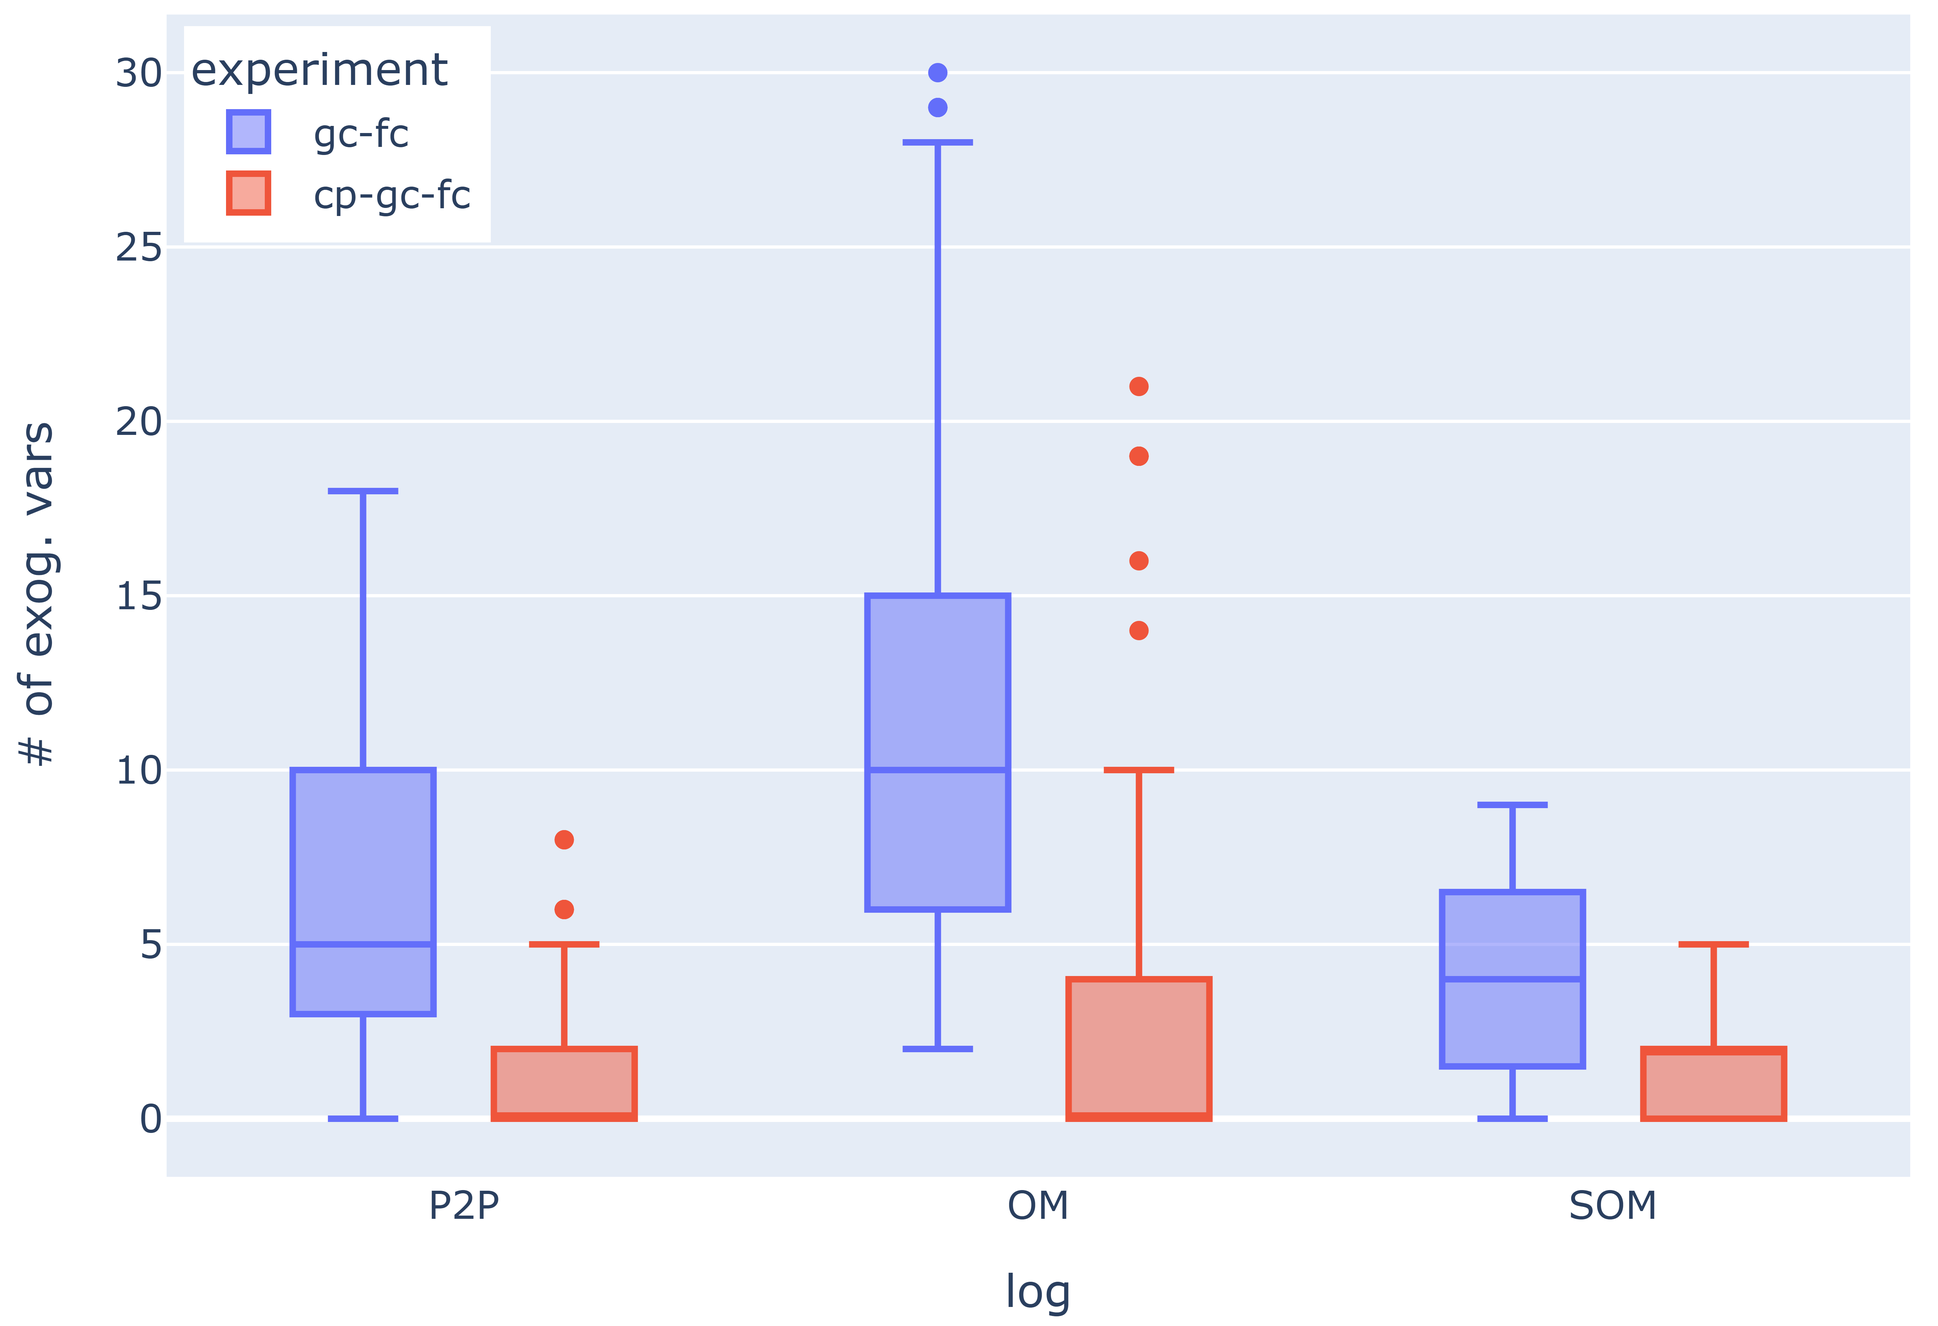
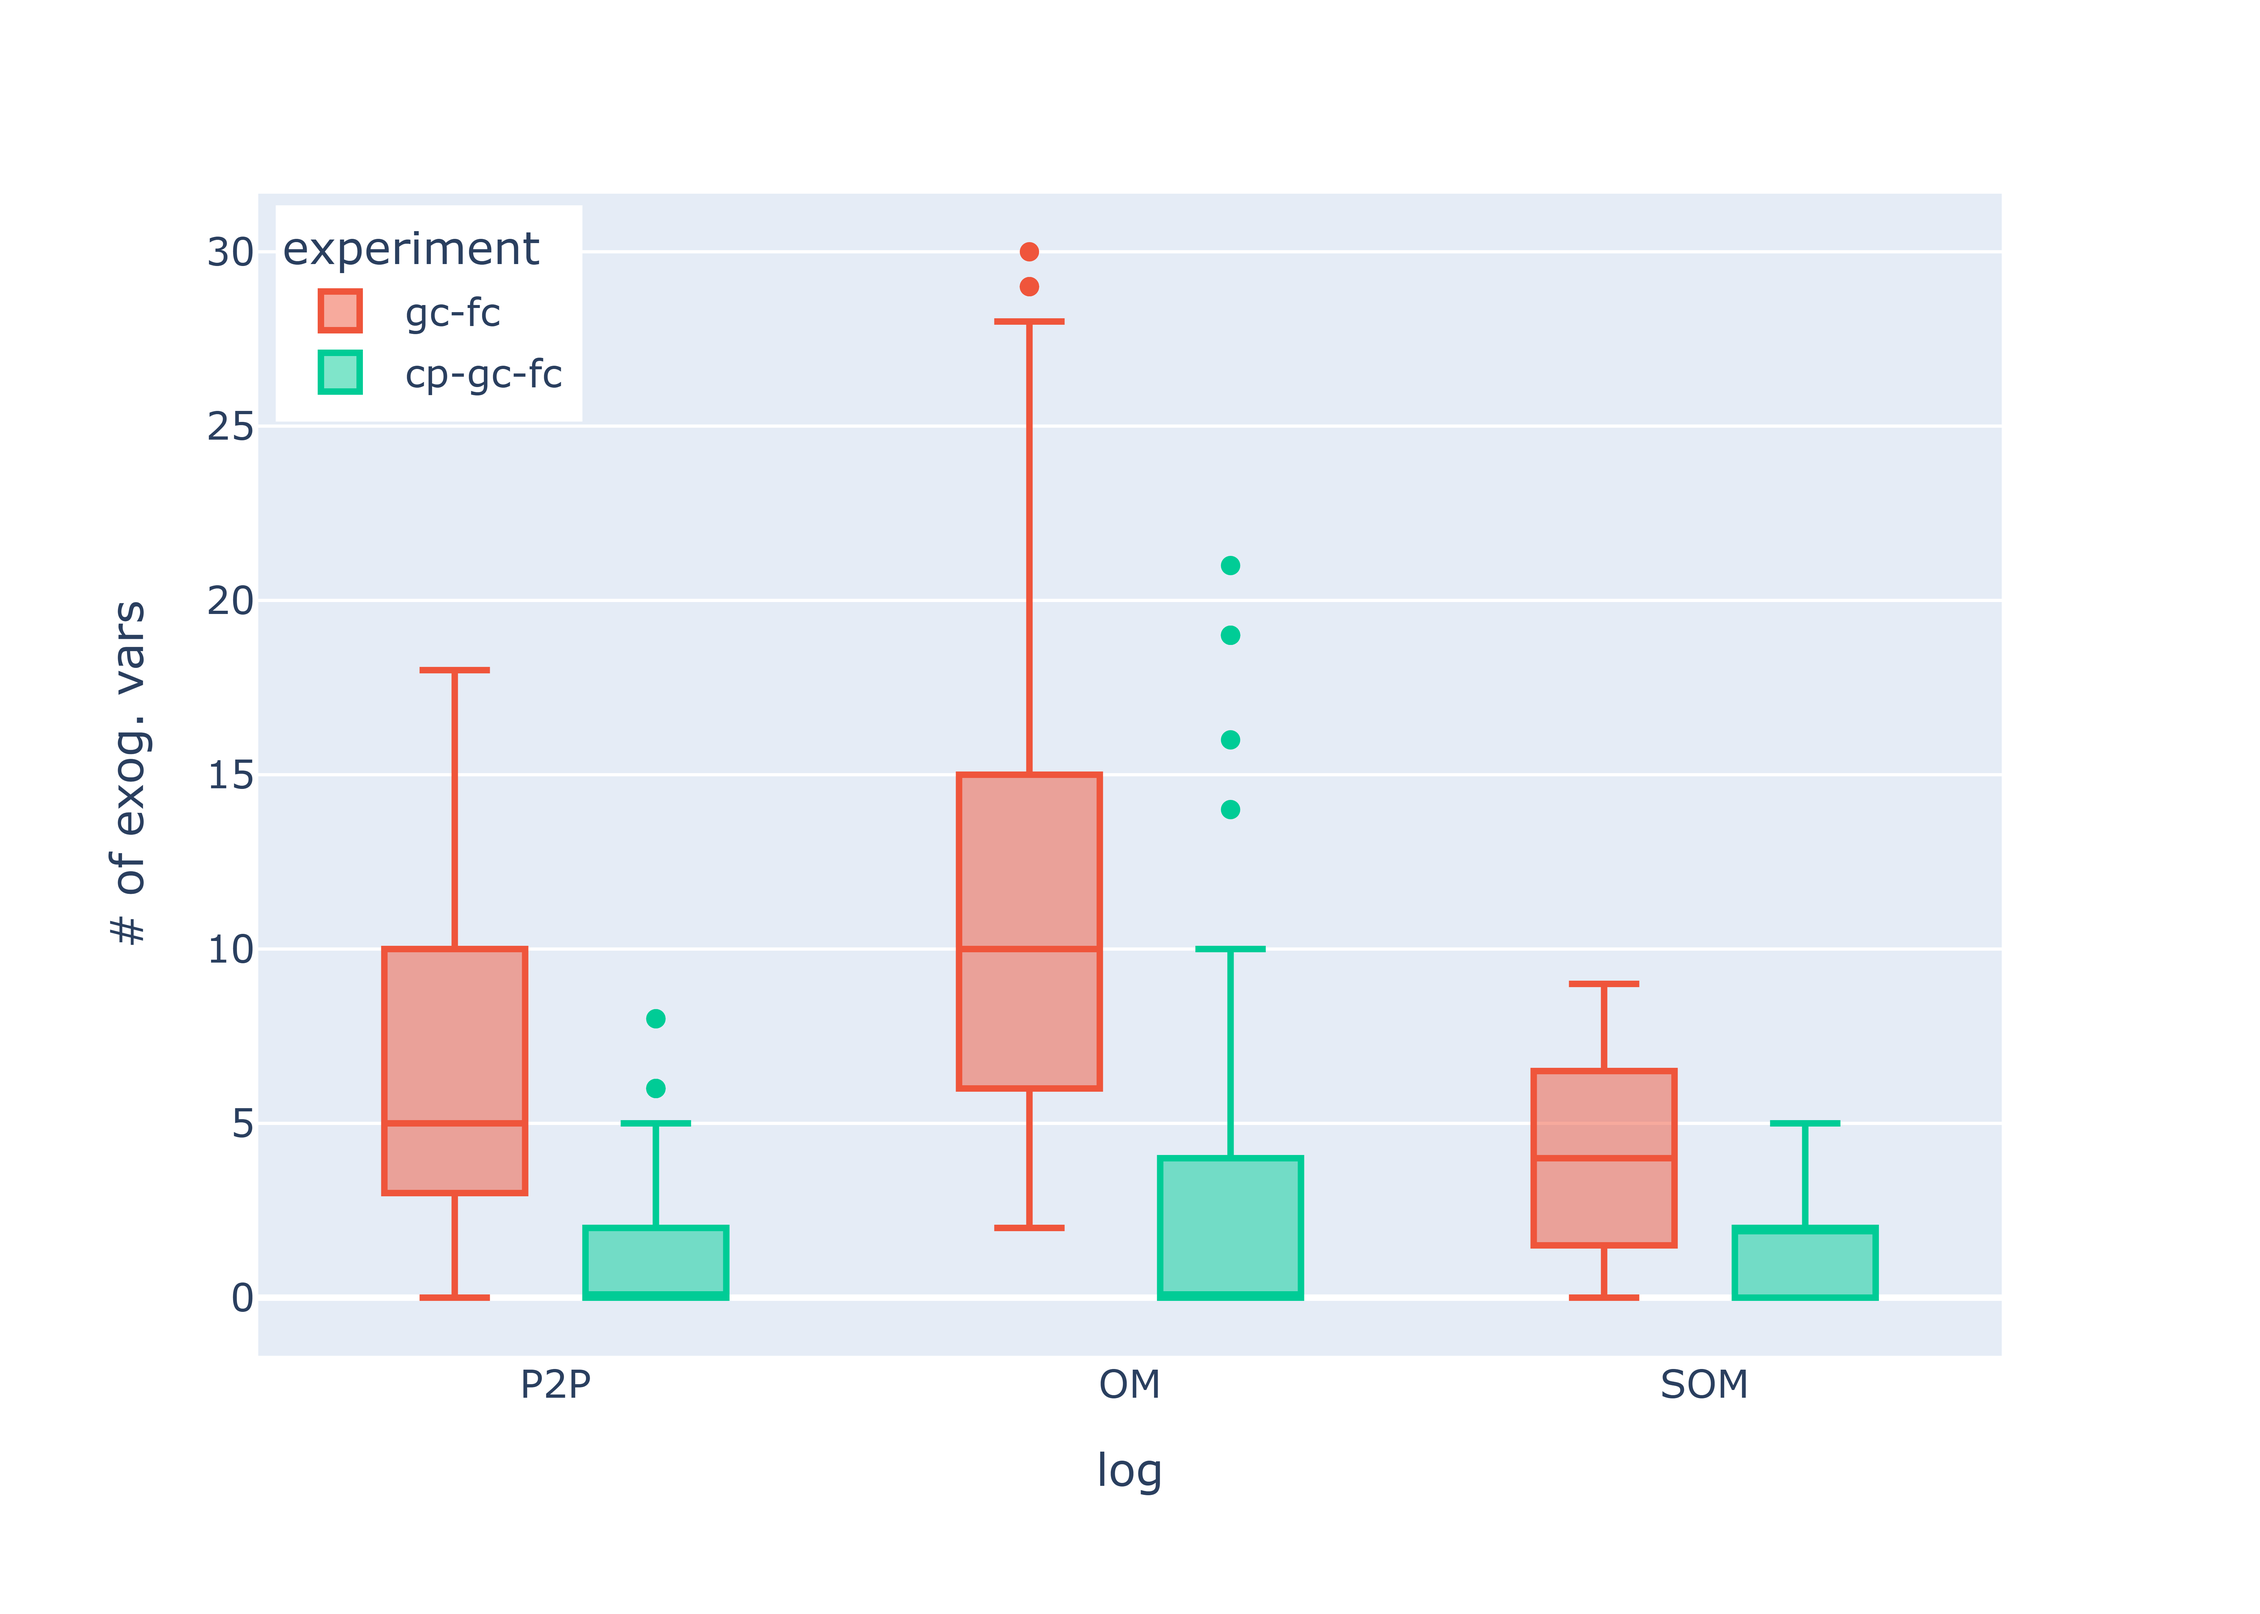
misc.

diff --git a/README.md b/README.md
@@ -13,8 +13,9 @@
 - Whenever the app is loading/executing, an animation showing a running stick figure is displayed at the top right to indicate this. 
 - Time series with no values for one or more time periods will be discarded and not displayed at all.
 - Constant time series (same value in every interval) will be displayed at first but not considered for further analysis.
+- See https://www.sktime.net/en/stable/api_reference/auto_generated/sktime.forecasting.arima.AutoARIMA.html for parameters of Auto-ARIMA. See https://centre-borelli.github.io/ruptures-docs/code-reference/detection/pelt-reference/#ruptures.detection.pelt.Pelt for parameters of PELT.
 - The feature for supporting non-atomic events via specification of an endtime attribute has not been tested extensively due to lack of publicly available OCELs that contain non-atomic events. Therefore, this feature remains experimental and prone to errors.
-- Please don't use the modified log produced by the tool. The download feature is only for verficiation or external usage. The recycling of the log is performed internally.
+- Please don't use the modified log produced by the tool as input to the tool itself. The download feature is only for verficiation or external usage. The recycling of the log is performed internally.
 - Timeseries for service time and soujourn time are only generated if the log contains non-atomic events since they are equal to 0 and waiting time, respectively, in case of atomic events.
 - In case if you select a wrong option that cannot be changed after confirming, click the reset button (or refresh the webpage) and start over.
 - If you want to minimize the runtime, try to select only a few event types/object types/properties at one time.
